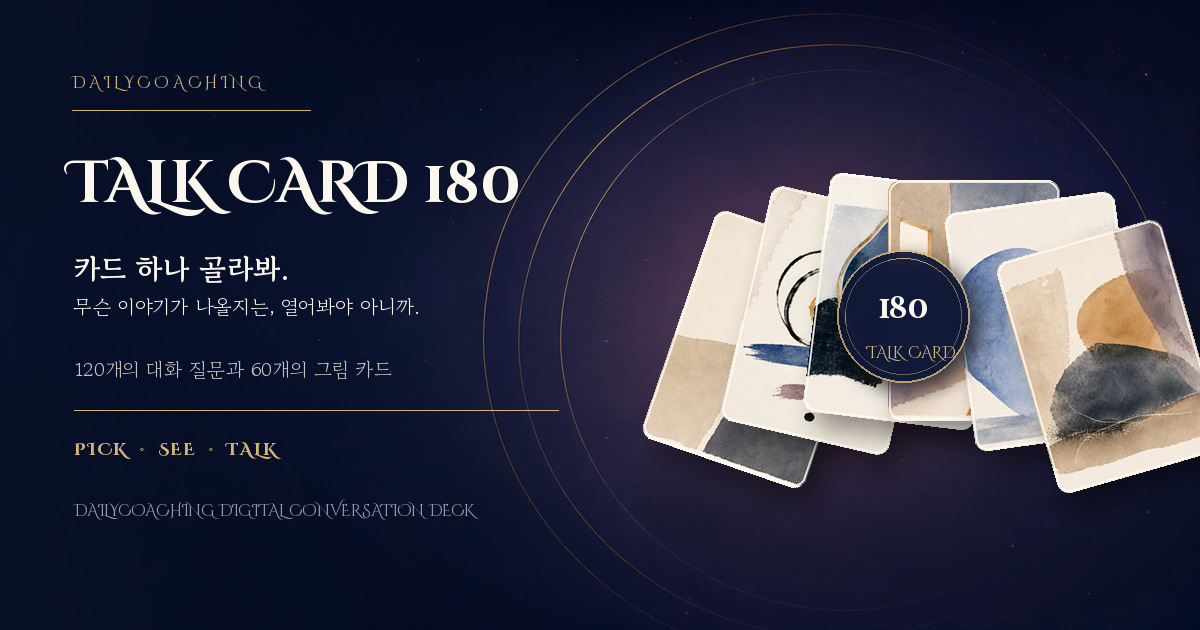
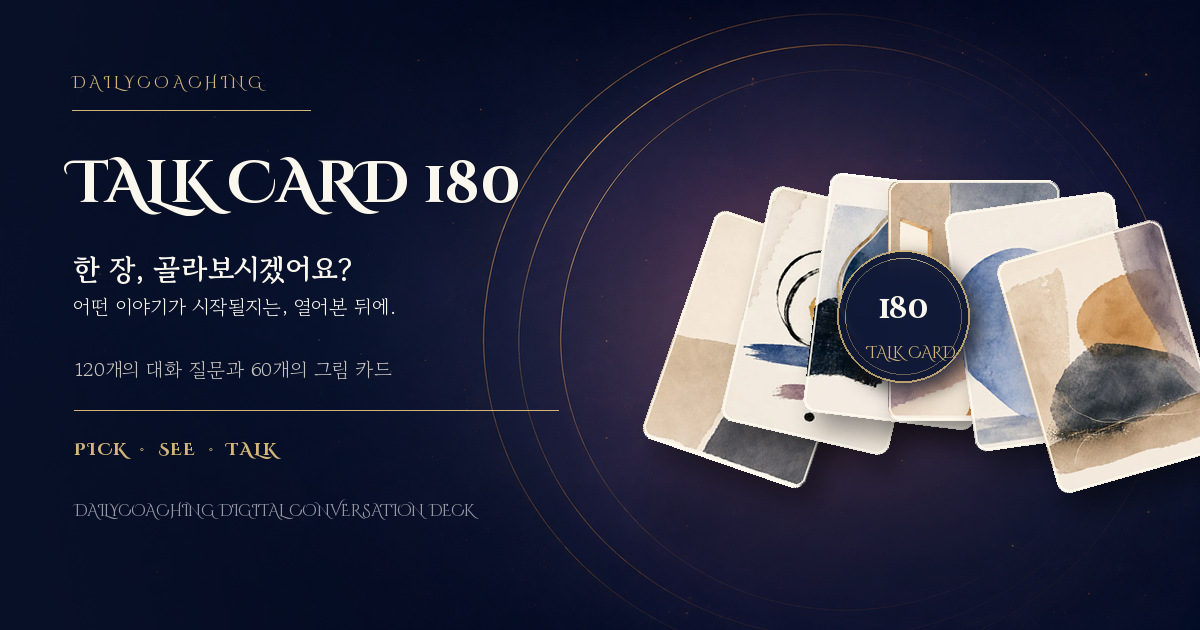
Refine TALK CARD social invitation copy

Changed region(s): [[0.0617, 0.3921, 0.3392, 0.5127]]

diff --git a/cards/talkcard180/index.html b/cards/talkcard180/index.html
@@ -8,7 +8,7 @@
     <link rel="canonical" href="https://daily-coach-ing.com/cards/talkcard180/" />
     <link
       rel="image_src"
-      href="https://daily-coach-ing.com/cards/talkcard180/assets/images/talkcard180-og-v21.jpg?v=20260818-hook1"
+      href="https://daily-coach-ing.com/cards/talkcard180/assets/images/talkcard180-og-v21.jpg?v=20260818-invite1"
     />
     <meta
       name="description"
@@ -17,19 +17,19 @@
     <meta property="og:type" content="website" />
     <meta property="og:locale" content="ko_KR" />
     <meta property="og:site_name" content="DAILYCOACHING" />
-    <meta property="og:title" content="카드 하나 골라봐. | TALK CARD 180" />
+    <meta property="og:title" content="한 장, 골라보시겠어요? | TALK CARD 180" />
     <meta
       property="og:description"
-      content="120개의 질문과 60개의 그림 카드. 어떤 이야기가 나올지는 열어봐야 압니다."
+      content="120개의 질문과 60개의 그림 카드. 한 장을 고르는 순간, 자연스럽게 대화가 시작됩니다."
     />
     <meta property="og:url" content="https://daily-coach-ing.com/cards/talkcard180/" />
     <meta
       property="og:image"
-      content="https://daily-coach-ing.com/cards/talkcard180/assets/images/talkcard180-og-v21.jpg?v=20260818-hook1"
+      content="https://daily-coach-ing.com/cards/talkcard180/assets/images/talkcard180-og-v21.jpg?v=20260818-invite1"
     />
     <meta
       property="og:image:secure_url"
-      content="https://daily-coach-ing.com/cards/talkcard180/assets/images/talkcard180-og-v21.jpg?v=20260818-hook1"
+      content="https://daily-coach-ing.com/cards/talkcard180/assets/images/talkcard180-og-v21.jpg?v=20260818-invite1"
     />
     <meta property="og:image:type" content="image/jpeg" />
     <meta property="og:image:width" content="1200" />
@@ -39,14 +39,14 @@
       content="네이비와 골드 배경 위에 TALK CARD 180 카드 여섯 장이 펼쳐진 모습"
     />
     <meta name="twitter:card" content="summary_large_image" />
-    <meta name="twitter:title" content="카드 하나 골라봐. | TALK CARD 180" />
+    <meta name="twitter:title" content="한 장, 골라보시겠어요? | TALK CARD 180" />
     <meta
       name="twitter:description"
-      content="120개의 질문과 60개의 그림 카드. 어떤 이야기가 나올지는 열어봐야 압니다."
+      content="120개의 질문과 60개의 그림 카드. 한 장을 고르는 순간, 자연스럽게 대화가 시작됩니다."
     />
     <meta
       name="twitter:image"
-      content="https://daily-coach-ing.com/cards/talkcard180/assets/images/talkcard180-og-v21.jpg?v=20260818-hook1"
+      content="https://daily-coach-ing.com/cards/talkcard180/assets/images/talkcard180-og-v21.jpg?v=20260818-invite1"
     />
     <meta
       name="twitter:image:alt"
